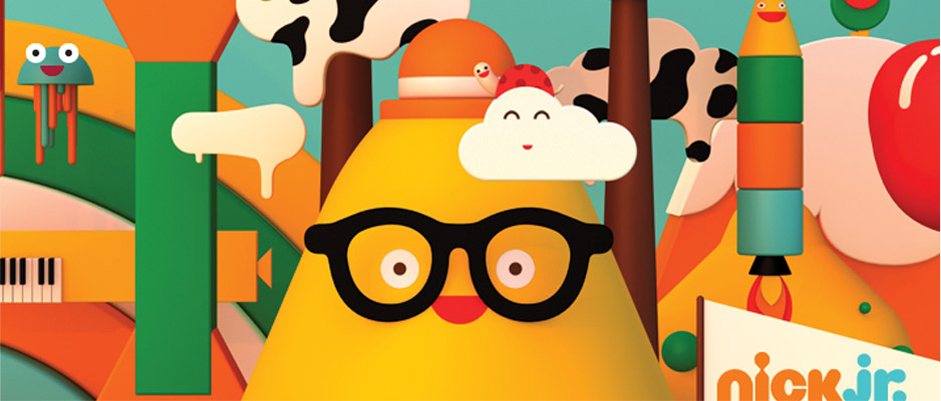
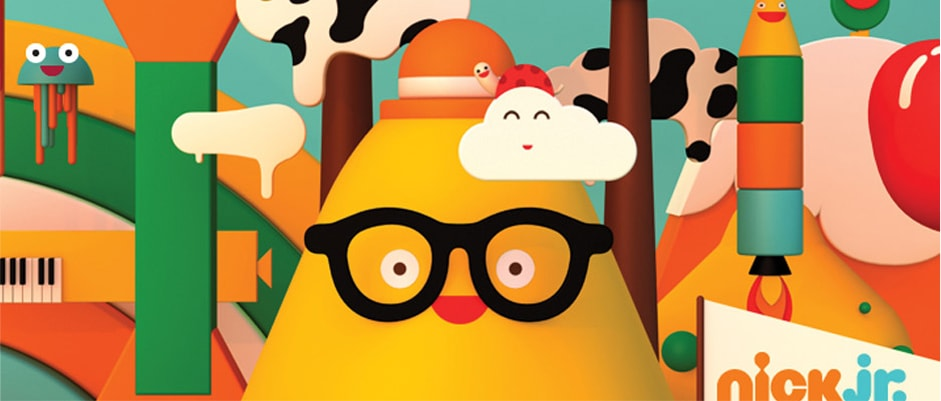
Сжал картинки и объединил файл core.js

diff --git a/vendor/Tablest/jquery.tabslet.min.js b/vendor/Tablest/jquery.tabslet.min.js
@@ -1,0 +1,40 @@
+/**
+ * Tabslet | tabs jQuery plugin
+ *
+ * @copyright Copyright 2015, Dimitris Krestos
+ * @license   Apache License, Version 2.0 (http://www.opensource.org/licenses/apache2.0.php)
+ * @link      http://vdw.staytuned.gr
+ * @version   v1.7.3
+ */
+
+  /* Sample html structure
+
+  <div class='tabs'>
+    <ul class='horizontal'>
+      <li><a href="#tab-1">Tab 1</a></li>
+      <li><a href="#tab-2">Tab 2</a></li>
+      <li><a href="#tab-3">Tab 3</a></li>
+    </ul>
+    <div id='tab-1'></div>
+    <div id='tab-2'></div>
+    <div id='tab-3'></div>
+  </div>
+
+  OR
+
+  <div class='tabs'>
+    <ul class='horizontal'>
+      <li><a href="#tab-1">Tab 1</a></li>
+      <li><a href="#tab-2">Tab 2</a></li>
+      <li><a href="#tab-3">Tab 3</a></li>
+    </ul>
+  </div>
+  <div id='tabs_container'>
+    <div id='tab-1'></div>
+    <div id='tab-2'></div>
+    <div id='tab-3'></div>
+  </div>
+
+  */
+
+!function($,window,undefined){"use strict";$.fn.tabslet=function(options){var defaults={mouseevent:"click",activeclass:"active",attribute:"href",animation:!1,autorotate:!1,deeplinking:!1,pauseonhover:!0,delay:2e3,active:1,container:!1,controls:{prev:".prev",next:".next"}},options=$.extend(defaults,options);return this.each(function(){function deep_link(){var t=[];elements.find("a").each(function(){t.push($(this).attr($this.opts.attribute))});var e=$.inArray(location.hash,t);return e>-1?e+1:$this.data("active")||options.active}var $this=$(this),_cache_li=[],_cache_div=[],_container=options.container?$(options.container):$this,_tabs=_container.find("> div");_tabs.each(function(){_cache_div.push($(this).css("display"))});var elements=$this.find("> ul > li"),i=options.active-1;if(!$this.data("tabslet-init")){$this.data("tabslet-init",!0),$this.opts=[],$.map(["mouseevent","activeclass","attribute","animation","autorotate","deeplinking","pauseonhover","delay","container"],function(t){$this.opts[t]=$this.data(t)||options[t]}),$this.opts.active=$this.opts.deeplinking?deep_link():$this.data("active")||options.active,_tabs.hide(),$this.opts.active&&(_tabs.eq($this.opts.active-1).show(),elements.eq($this.opts.active-1).addClass(options.activeclass));var fn=eval(function(t,e){var s=e?elements.find("a["+$this.opts.attribute+'="'+e+'"]').parent():$(this);s.trigger("_before"),elements.removeClass(options.activeclass),s.addClass(options.activeclass),_tabs.hide(),i=elements.index(s);var o=e||s.find("a").attr($this.opts.attribute);return $this.opts.deeplinking&&(location.hash=o),$this.opts.animation?_container.find(o).animate({opacity:"show"},"slow",function(){s.trigger("_after")}):(_container.find(o).show(),s.trigger("_after")),!1}),init=eval("elements."+$this.opts.mouseevent+"(fn)"),t,forward=function(){i=++i%elements.length,"hover"==$this.opts.mouseevent?elements.eq(i).trigger("mouseover"):elements.eq(i).click(),$this.opts.autorotate&&(clearTimeout(t),t=setTimeout(forward,$this.opts.delay),$this.mouseover(function(){$this.opts.pauseonhover&&clearTimeout(t)}))};$this.opts.autorotate&&(t=setTimeout(forward,$this.opts.delay),$this.hover(function(){$this.opts.pauseonhover&&clearTimeout(t)},function(){t=setTimeout(forward,$this.opts.delay)}),$this.opts.pauseonhover&&$this.on("mouseleave",function(){clearTimeout(t),t=setTimeout(forward,$this.opts.delay)}));var move=function(t){"forward"==t&&(i=++i%elements.length),"backward"==t&&(i=--i%elements.length),elements.eq(i).click()};$this.find(options.controls.next).click(function(){move("forward")}),$this.find(options.controls.prev).click(function(){move("backward")}),$this.on("show",function(t,e){fn(t,e)}),$this.on("next",function(){move("forward")}),$this.on("prev",function(){move("backward")}),$this.on("destroy",function(){$(this).removeData().find("> ul li").each(function(){$(this).removeClass(options.activeclass)}),_tabs.each(function(t){$(this).removeAttr("style").css("display",_cache_div[t])})})}})},$(document).ready(function(){$('[data-toggle="tabslet"]').tabslet()})}(jQuery);

diff --git a/js/core.js b/js/core.js
@@ -1,5 +1,5 @@
 $(document).ready(function(){
-	// start-header
+
 	$('#menu-btn').click(function(){		
 			$('.main-nav').slideToggle(400);	
 			if ($(this).hasClass('not-active')) {
@@ -10,9 +10,8 @@ $(document).ready(function(){
 				},600)			
 			}		
 		});
-	// end-header
 
-	// start-Info-block
+
 	$('.slider-1').slick({
 		slidesToShow: 1,
 		slidesToScroll: 1,
@@ -28,5 +27,13 @@ $(document).ready(function(){
 		centerMode: false,
 		focusOnSelect: true
 	});
-	// end-info-block
+
+
+	$('.tabs').tabslet({
+        mouseevent: 'click',
+        attribute: 'href',
+        animation: true
+    });
+
+
 });

diff --git a/portfoli-item.html b/portfoli-item.html
@@ -83,8 +83,8 @@
 
 
 <script src="vendor/jQuery/jquery-3.2.0.min.js"></script>
+<script src="vendor/jQuery/jquery-migrate-3.0.0.min.js"></script>
 <script src="js/core.js"></script>
-
 
 </body>
 </html>

diff --git a/Portfolio.html b/Portfolio.html
@@ -83,6 +83,7 @@
 
 
 <script src="vendor/jQuery/jquery-3.2.0.min.js"></script>
+<script src="vendor/jQuery/jquery-migrate-3.0.0.min.js"></script>
 <script src="js/core.js"></script>
 
 

diff --git a/contact.html b/contact.html
@@ -83,6 +83,7 @@
 
 
 <script src="vendor/jQuery/jquery-3.2.0.min.js"></script>
+<script src="vendor/jQuery/jquery-migrate-3.0.0.min.js"></script>
 <script src="js/core.js"></script>
 
 

diff --git a/main.html b/main.html
@@ -83,6 +83,7 @@
 
 
 <script src="vendor/jQuery/jquery-3.2.0.min.js"></script>
+<script src="vendor/jQuery/jquery-migrate-3.0.0.min.js"></script>
 <script src="js/core.js"></script>
 
 
